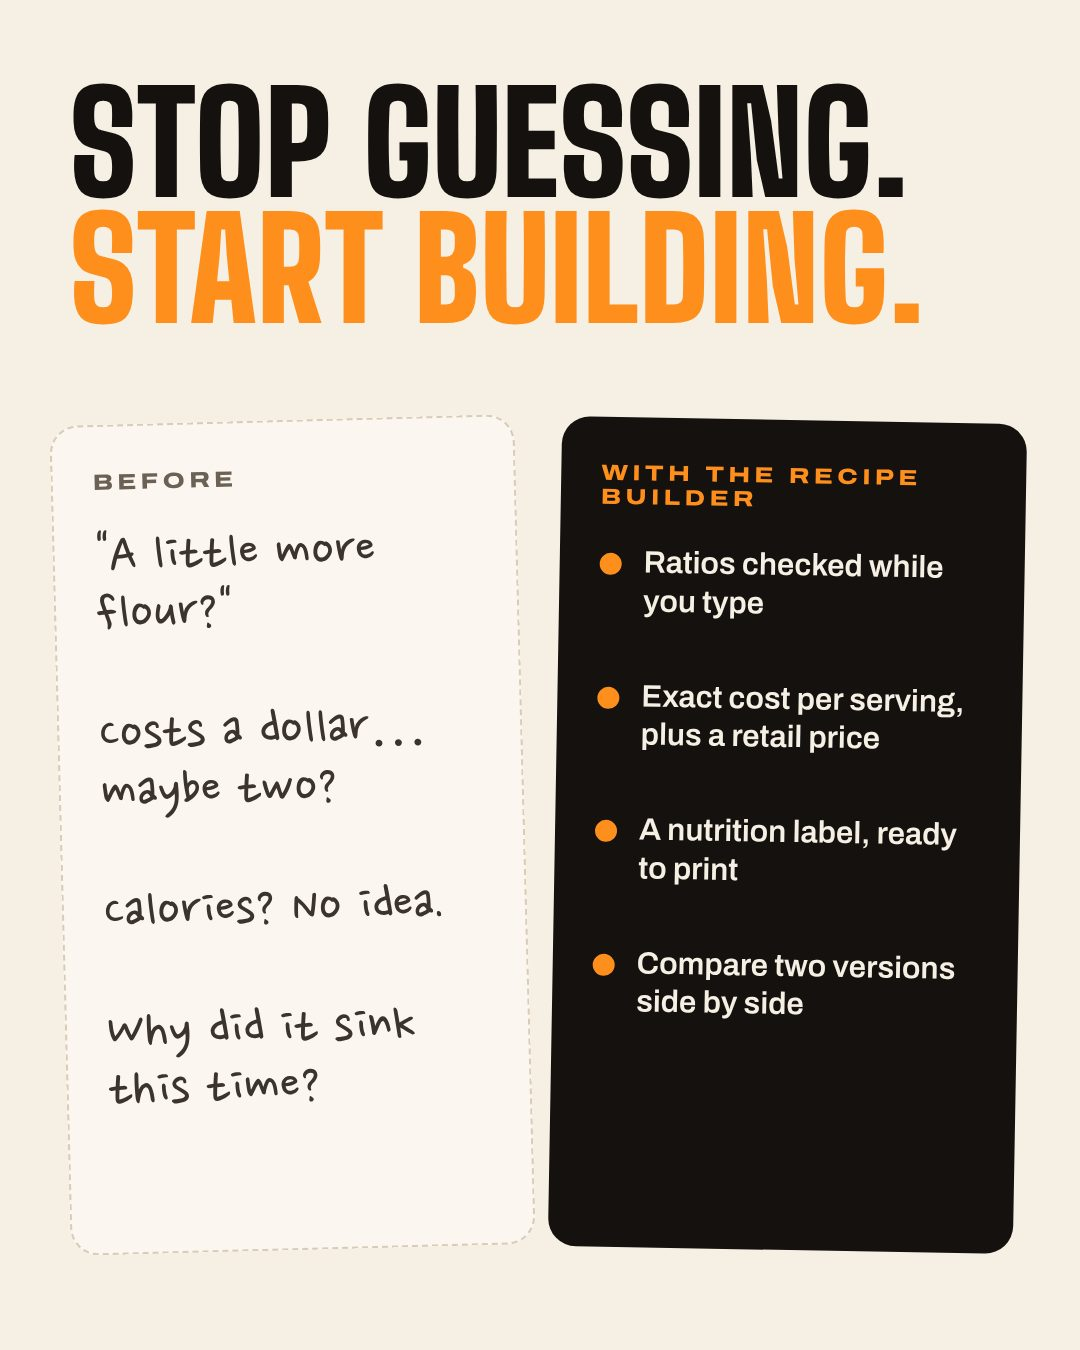
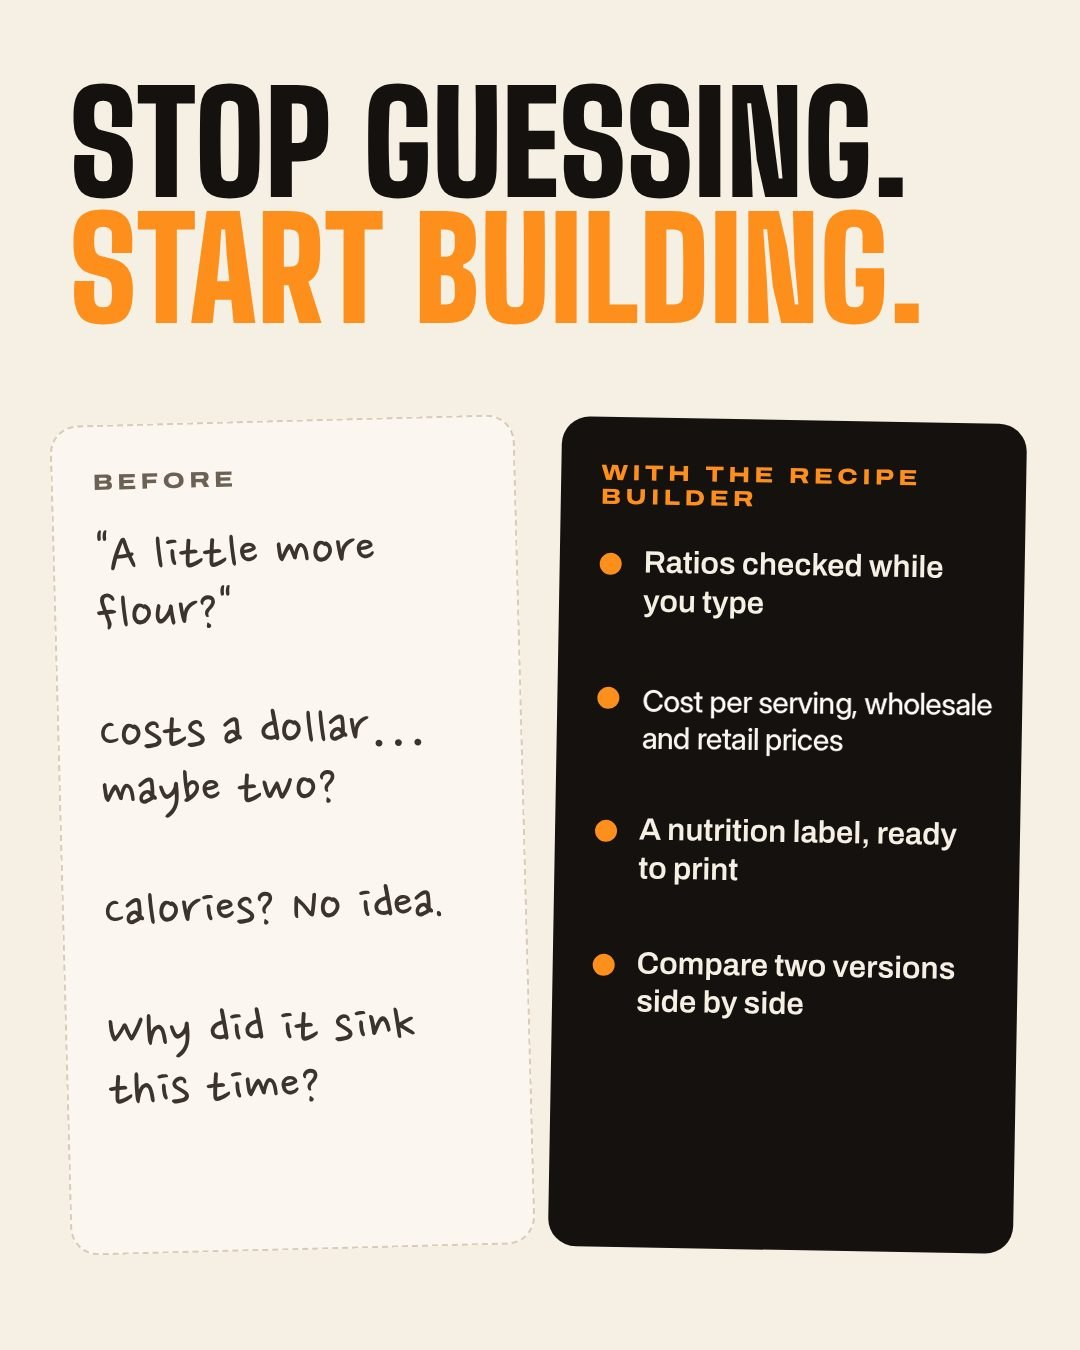
Bake like a pro, image first; ratio guides section; wholesale and retail prices wording
Claude-Session: https://claude.ai/code/session_01DuxAi6wCHSeqCt4Bw57fvC

Changed region(s): [[0.5806, 0.4978, 0.9167, 0.56]]

diff --git a/index.html b/index.html
@@ -1082,9 +1082,12 @@
 
 <section class="blog-link reveal" id="recipe-builder">
   <div class="rb-home">
+    <a href="/recipe-builder/" class="rb-home-img stagger-item" aria-label="The Recipe Builder">
+      <picture><source type="image/webp" srcset="recipe-builder/know-it-works-600w.webp 600w, recipe-builder/know-it-works-1080w.webp 1080w" sizes="(max-width: 800px) 100vw, 480px"><img src="recipe-builder/know-it-works-1080w.jpg" srcset="recipe-builder/know-it-works-600w.jpg 600w, recipe-builder/know-it-works-1080w.jpg 1080w" sizes="(max-width: 800px) 100vw, 480px" width="1080" height="1350" alt="The Recipe Builder on three phones: a recipe, the ratios screen and compare recipes" loading="lazy" decoding="async"></picture>
+    </a>
     <div class="rb-home-text">
       <div class="section-label stagger-item">My App</div>
-      <h2 class="section-title stagger-item" style="margin-bottom: 1.5rem;">Bake it <em>right.</em></h2>
+      <h2 class="section-title stagger-item" style="margin-bottom: 1.5rem;">Bake like a <em>pro.</em></h2>
       <p class="stagger-item rb-home-p">The same app we use in our kitchen to save and build recipes. Open any recipe from my blog, check your ratios, get the cost and a nutrition label. Free to start.</p>
       <div class="rb-home-btns stagger-item">
         <a class="store-badge" href="https://apps.apple.com/app/id6817920070" target="_blank" rel="noopener" aria-label="Download on the App Store"><svg viewBox="0 0 24 24" aria-hidden="true" fill="#fff"><path d="M16.37 12.6c-.02-2.3 1.88-3.4 1.96-3.46-1.07-1.56-2.73-1.78-3.32-1.8-1.41-.14-2.76.83-3.48.83-.72 0-1.82-.81-3-.79-1.54.02-2.96.9-3.76 2.27-1.6 2.78-.41 6.9 1.15 9.16.76 1.1 1.67 2.34 2.86 2.3 1.15-.05 1.58-.74 2.97-.74 1.38 0 1.77.74 2.98.72 1.23-.02 2.01-1.12 2.76-2.23.87-1.28 1.23-2.52 1.25-2.58-.03-.01-2.4-.92-2.42-3.66zM14.1 5.84c.63-.77 1.06-1.83.94-2.89-.91.04-2.01.61-2.66 1.37-.58.67-1.1 1.76-.96 2.8 1.01.08 2.05-.52 2.68-1.28z"/></svg><span><small>Download on the</small><b>App Store</b></span></a>
@@ -1094,9 +1097,6 @@
         <a href="/recipe-builder/" class="blog-link-btn rb-home-line">See how it works &rarr;</a>
       </div>
     </div>
-    <a href="/recipe-builder/" class="rb-home-img stagger-item" aria-label="The Recipe Builder">
-      <picture><source type="image/webp" srcset="recipe-builder/know-it-works-600w.webp 600w, recipe-builder/know-it-works-1080w.webp 1080w" sizes="(max-width: 800px) 100vw, 480px"><img src="recipe-builder/know-it-works-1080w.jpg" srcset="recipe-builder/know-it-works-600w.jpg 600w, recipe-builder/know-it-works-1080w.jpg 1080w" sizes="(max-width: 800px) 100vw, 480px" width="1080" height="1350" alt="The Recipe Builder on three phones: a recipe, the ratios screen and compare recipes" loading="lazy" decoding="async"></picture>
-    </a>
   </div>
 </section>
 
@@ -1116,7 +1116,7 @@
      (headings used to hug the left edge while the content sat in the middle). */
   section:not(.hero) { padding-left: max(2rem, calc((100% - 1200px) / 2)); padding-right: max(2rem, calc((100% - 1200px) / 2)); }
   @media (max-width: 700px) { section:not(.hero) { padding-left: 1.25rem; padding-right: 1.25rem; } }
-  .rb-home { display: grid; grid-template-columns: 1.2fr 1fr; gap: 4rem; align-items: center; }
+  .rb-home { display: grid; grid-template-columns: 1fr 1.2fr; gap: 4rem; align-items: center; }
   .rb-home-p { max-width: 520px; font-size: 1.1rem; line-height: 1.6; opacity: 0.85; margin-bottom: 1.75rem; }
   .rb-home-btns { display: flex; flex-wrap: wrap; gap: .75rem; }
   .store-badge { display: inline-flex; align-items: center; gap: .55rem; padding: .55rem 1.1rem .55rem .9rem; background: #000; color: #fff; border: 1px solid #a6a6a6; border-radius: 9px; text-decoration: none; line-height: 1.05; transition: transform .2s ease; }
@@ -1127,7 +1127,7 @@
   .store-badge b { font-size: 1.15rem; font-weight: 600; letter-spacing: -.01em; text-transform: none; }
   .blog-link-btn.rb-home-line { background: transparent; color: var(--ink); border: 1.5px solid var(--ink); }
   .blog-link-btn.rb-home-line:hover { background: var(--ink); color: var(--paper); }
-  .rb-home-img { display: block; max-width: 480px; justify-self: end; width: 100%; }
+  .rb-home-img { display: block; max-width: 480px; justify-self: start; width: 100%; }
   .rb-home-img img { width: 100%; height: auto; display: block; border-radius: 10px; box-shadow: 0 24px 50px -28px rgba(26,23,20,.45); }
   @media (max-width: 800px) { .rb-home { grid-template-columns: 1fr; gap: 2.5rem; } .rb-home-img { justify-self: start; } }
 </style>

diff --git a/recipe-builder/index.html b/recipe-builder/index.html
@@ -234,6 +234,17 @@
     </div>
     <div class="rb-row flip">
       <picture class="rb-row-img">
+        <source type="image/webp" srcset="ratio-guides-600w.webp 600w, ratio-guides-1080w.webp 1080w" sizes="(max-width: 900px) 100vw, 520px">
+        <img class="rb-slide" src="ratio-guides-1080w.jpg" srcset="ratio-guides-600w.jpg 600w, ratio-guides-1080w.jpg 1080w" sizes="(max-width: 900px) 100vw, 520px" width="1080" height="1350" alt="The ratios screen: liquids, fats, sugar, leaveners and binders, each with the range it should land in" loading="lazy" decoding="async">
+      </picture>
+      <div>
+        <div class="section-label">Ratio guides</div>
+        <h2 class="rb-h2">Your ratios, <em>guided.</em></h2>
+        <p class="rb-p">Muffins, cakes, cookies, breads or pies: every category has its own ranges. As you build, each ingredient group shows where it should land, so you can see what's off and fix it before you bake.</p>
+      </div>
+    </div>
+    <div class="rb-row">
+      <picture class="rb-row-img">
         <source type="image/webp" srcset="compare-recipes-600w.webp 600w, compare-recipes-1080w.webp 1080w" sizes="(max-width: 900px) 100vw, 520px">
         <img class="rb-slide" src="compare-recipes-1080w.jpg" srcset="compare-recipes-600w.jpg 600w, compare-recipes-1080w.jpg 1080w" sizes="(max-width: 900px) 100vw, 520px" width="1080" height="1350" alt="Comparing two muffin recipes side by side in the Recipe Builder" loading="lazy" decoding="async">
       </picture>
@@ -243,18 +254,18 @@
         <p class="rb-p">Tweak a recipe and put it next to the original. You'll know before you bake whether the change makes it denser, more crumbly or flatter, so you test less and waste fewer batches.</p>
       </div>
     </div>
-    <div class="rb-row">
+    <div class="rb-row flip">
       <picture class="rb-row-img">
-        <source type="image/webp" srcset="before-after-600w.webp 600w, before-after-1080w.webp 1080w" sizes="(max-width: 900px) 100vw, 520px">
-        <img class="rb-slide" src="before-after-1080w.jpg" srcset="before-after-600w.jpg 600w, before-after-1080w.jpg 1080w" sizes="(max-width: 900px) 100vw, 520px" width="1080" height="1350" alt="Before: guessing. With the Recipe Builder: ratios, cost, nutrition and compare" loading="lazy" decoding="async">
+        <source type="image/webp" srcset="before-after-600w.webp?v=2 600w, before-after-1080w.webp?v=2 1080w" sizes="(max-width: 900px) 100vw, 520px">
+        <img class="rb-slide" src="before-after-1080w.jpg?v=2" srcset="before-after-600w.jpg?v=2 600w, before-after-1080w.jpg?v=2 1080w" sizes="(max-width: 900px) 100vw, 520px" width="1080" height="1350" alt="Stop guessing, start building: ratios checked while you type, cost per serving, wholesale and retail prices, a nutrition label and compare" loading="lazy" decoding="async">
       </picture>
       <div>
         <div class="section-label">Ratios, cost, nutrition</div>
         <h2 class="rb-h2">Stop guessing, <em>start building.</em></h2>
-        <p class="rb-p">Exact cost, plus wholesale and retail prices, done for you. Add your ingredient prices once and every recipe shows what it costs to make and what to charge. Every ingredient is checked against ranges that work for gluten-free and vegan baking.</p>
+        <p class="rb-p">Cost per serving, wholesale and retail prices, done for you. Add your ingredient prices once and every recipe shows what it costs to make and what to charge. Every ingredient is checked against ranges that work for gluten-free and vegan baking.</p>
       </div>
     </div>
-    <div class="rb-row flip">
+    <div class="rb-row">
       <picture class="rb-row-img">
         <source type="image/webp" srcset="ask-wassem-600w.webp 600w, ask-wassem-1080w.webp 1080w" sizes="(max-width: 900px) 100vw, 520px">
         <img class="rb-slide" src="ask-wassem-1080w.jpg" srcset="ask-wassem-600w.jpg 600w, ask-wassem-1080w.jpg 1080w" sizes="(max-width: 900px) 100vw, 520px" width="1080" height="1350" alt="Wassem's bot: a troubleshooting chat that checks your recipe against Wassem's bakery recipes" loading="lazy" decoding="async">
@@ -292,7 +303,7 @@
         <ul>
           <li class="plus">Everything in Free, plus:</li>
           <li>Unlimited recipes</li>
-          <li>Exact cost, plus wholesale and retail prices</li>
+          <li>Cost per serving, wholesale and retail prices</li>
           <li>Compare recipes</li>
           <li>Wassem's bot: troubleshooting chat</li>
           <li>Nutrition label PDF</li>
